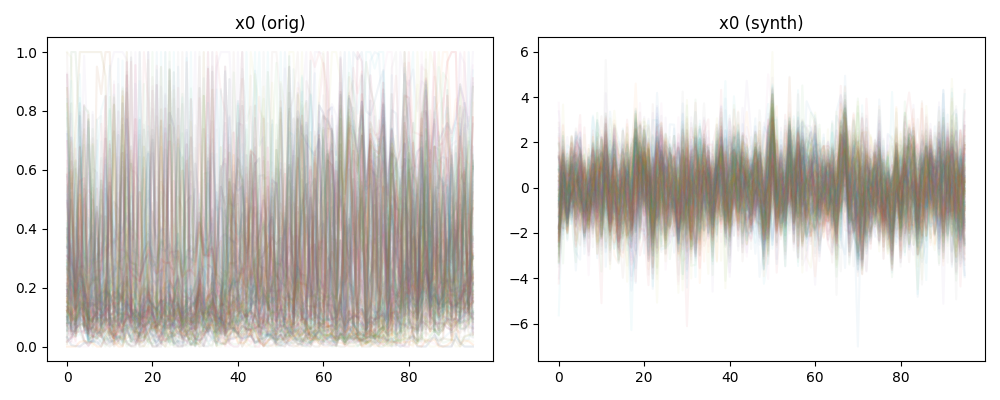
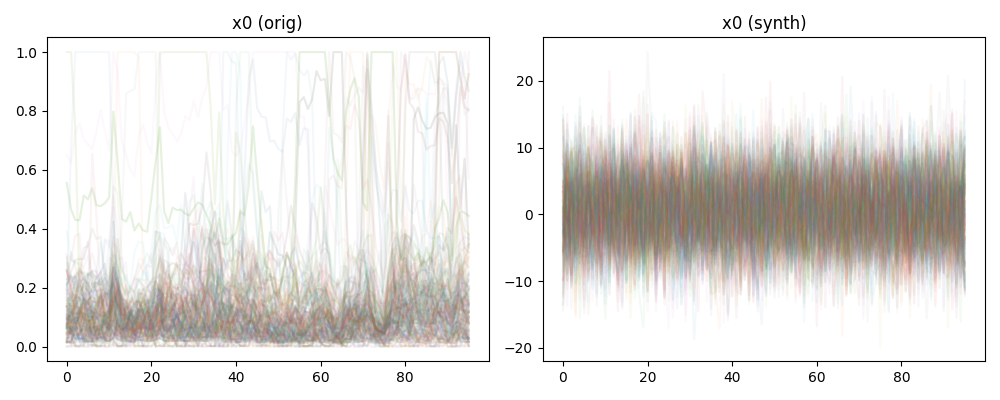
add

diff --git a/exp/exp_second_round/conditional_generativemodels/ddpm_train.py b/exp/exp_second_round/conditional_generativemodels/ddpm_train.py
@@ -27,7 +27,7 @@ import ddpm_model as ddpm
 
 def main():
     # ===== Config =====
-    batch_size        = 32
+    batch_size        = 16
     split_ratio       = (0.8, 0.1, 0.1)
     data_path         = 'exp/data_process_for_data_collection_all/new_data_15minute_grid_nomerge.pkl'
     save_dir_root     = 'exp/exp_second_round/conditional_generativemodels'
@@ -36,10 +36,10 @@ def main():
     N, L              = 250, 96        # (channels, length)
     random_sample_num = 4             # condition channels N'
     T                 = 300            # diffusion steps
-    hidden_channels   = 240             # model hidden channels
+    hidden_channels   = 340            # model hidden channels
     lr                = 2e-4
     weight_decay      = 1e-4
-    max_iters         = 1000000
+    max_iters         = 100001
     log_every         = 200
 
     # I/O
@@ -64,7 +64,7 @@ def main():
     # ===== Model & Opt =====
     betas = ddpm.linear_beta_schedule(T)  # length-T schedule
     model = ddpm.FFD_NL(
-        in_channels=N,
+        in_channels=1,
         hidden_channels=hidden_channels,
         condition_channels=random_sample_num,
         t_max=T,
@@ -108,12 +108,16 @@ def main():
         # 3) Build condition: randomly sample N' channels (and same L)
         cond = rs.random_sample(x0, 'random', random_sample_num).to(device)  # (B, N', L)
         assert cond.shape[1] == random_sample_num and cond.shape[2] == L
-
         B = x0.size(0)
-
+        # Reshap x0 (B, N, L) and cond (B*N, 1, L) if needed by your model
+        x0 = x0.reshape(B*N, -1, L)
+        # Expand cond (B, N', L) → (B*N, N', L)
+        cond = cond.unsqueeze(1).expand(-1, N, -1, -1).reshape(-1, random_sample_num, L)
+        
         # 4) One optimization step on randomly sampled timesteps
-        t = torch.randint(0, T, (B,), device=device, dtype=torch.long)       # (B,)
+        t = torch.randint(0, T, (x0.shape[0],), device=device, dtype=torch.long)       # (B,)
         # use training() from the ddpm module (computes eps, forward-noise, MSE)
+        # print(x0.shape, cond.shape, t.shape)
         loss = ddpm.training(model, x0, t, cum_alpha_sqrt, cum_one_minus_alpha_sqrt, cond=cond)
 
         opt.zero_grad(set_to_none=True)
@@ -122,22 +126,23 @@ def main():
         torch.nn.utils.clip_grad_norm_(model.parameters(), max_norm=1.0)
         opt.step()
 
+        print(f"iter {it} | loss {loss.item():.6f}")
         # 5) Logs, sampling preview, checkpointing
         if it % log_every == 0:
             print(f"iter {it} | loss {loss.item():.6f}")
 
             with torch.no_grad():
                 # sampling() from ddpm module (starts from noise, uses model+cond)
-                samples = ddpm.sampling(model, cond)  # (B, N, L)
-                print("Sampled data shape:", samples.shape, "cond shape:", cond.shape)
+                samples = ddpm.sampling(model, cond[:250])  # (B, N, L)
+                # print("Sampled data shape:", samples.shape, "cond shape:", cond.shape)
             # plot the first sample (many lines; faint alpha)
             fig = plt.figure(figsize=(10, 4))
             i = 0
             plt.subplot(1, 2, 1)
-            plt.plot(x0[i].detach().cpu().T, alpha=0.05)
+            plt.plot(x0[:250, 0, :].detach().cpu().T, alpha=0.05)
             plt.title("x0 (orig)")
             plt.subplot(1, 2, 2)
-            plt.plot(samples[i].detach().cpu().T, alpha=0.05)
+            plt.plot(samples[:,0,:].detach().cpu().T, alpha=0.05)
             plt.title("x0 (synth)")
             plt.tight_layout()
             fig_path = os.path.join(subdir, 'preview_iter.png')

diff --git a/exp/exp_second_round/conditional_generativemodels/ddpm_model.py b/exp/exp_second_round/conditional_generativemodels/ddpm_model.py
@@ -23,12 +23,15 @@ class FFD_NL(nn.Module):
         self.net = nn.Sequential(
             nn.Conv1d(in_channels + 1 + self.condition_channels, hidden_channels, kernel_size=3, padding=1),
             # nn.GroupNorm(4, hidden_channels),
+            nn.BatchNorm1d(hidden_channels),
             nn.LeakyReLU(0.2, inplace=True),
             nn.Conv1d(hidden_channels, hidden_channels, kernel_size=3, padding=1),
             # nn.GroupNorm(4, hidden_channels),
+            nn.BatchNorm1d(hidden_channels),
             nn.LeakyReLU(0.2, inplace=True),
             nn.Conv1d(hidden_channels, hidden_channels, kernel_size=3, padding=1),
             # nn.GroupNorm(4, hidden_channels),
+            nn.BatchNorm1d(hidden_channels),
             nn.LeakyReLU(0.2, inplace=True),
             nn.Conv1d(hidden_channels, out_channels, kernel_size=3, padding=1),
         )
@@ -105,12 +108,12 @@ if __name__ == "__main__":
     torch.manual_seed(0)
 
     batch_size = 1
-    x0 = torch.randn(batch_size, 10, 24)
+    x0 = torch.randn(batch_size, 1, 24)
     cond = torch.randn(batch_size, 4, 24)
     t_max = 30
 
     betas = linear_beta_schedule(t_max)
-    model = FFD_NL(in_channels=10, condition_channels=4, t_max=t_max, betas=betas, hidden_channels=32)
+    model = FFD_NL(in_channels=1, condition_channels=4, t_max=t_max, betas=betas, hidden_channels=32)
 
     cum_alpha_sqrt = model.cumprod_alphas.sqrt()
     cum_one_minus_alpha_sqrt = (1 - model.cumprod_alphas).sqrt()

diff --git a/exp/exp_second_round/conditional_generativemodels/nf_train_lin.py b/exp/exp_second_round/conditional_generativemodels/nf_train_lin.py
@@ -24,12 +24,12 @@ def main():
     save_dir_root = 'exp/exp_second_round/conditional_generativemodels'
     N, L = 250, 96
     random_sample_num = 4
-    hidden_channels = 128
+    hidden_channels = 198
     K_blocks = 3
     lr = 2e-4
     weight_decay = 1e-4
     max_iters = 10001
-    log_every = 1
+    log_every = 100
 
     subdir = os.path.join(save_dir_root, f'{random_sample_num}shot')
     os.makedirs(subdir, exist_ok=True)
@@ -68,13 +68,11 @@ def main():
         cond = rs.random_sample(x0, 'random', random_sample_num).to(device)
 
         # forward
-        # fake_con = torch.ones_like(cond)
         # reshape x0 (B, N, L) → (B*N,1 , L)
         x0 = x0.reshape(-1, 1, L)
         # expland cond (B, N', L) → (B*N, N', L)
         cond = cond.unsqueeze(1).expand(-1, 250, -1, -1).reshape(-1, random_sample_num, L)
         cond = cond.reshape(cond.shape[0], -1, L//2)
-        # print('x0 shape: ', x0.shape, ' cond shape: ', cond.shape)
         z, log_det = model.forward(x0, cond)
         loss = 0.5 * (z**2).sum(dim=(1,2)) - log_det
         
